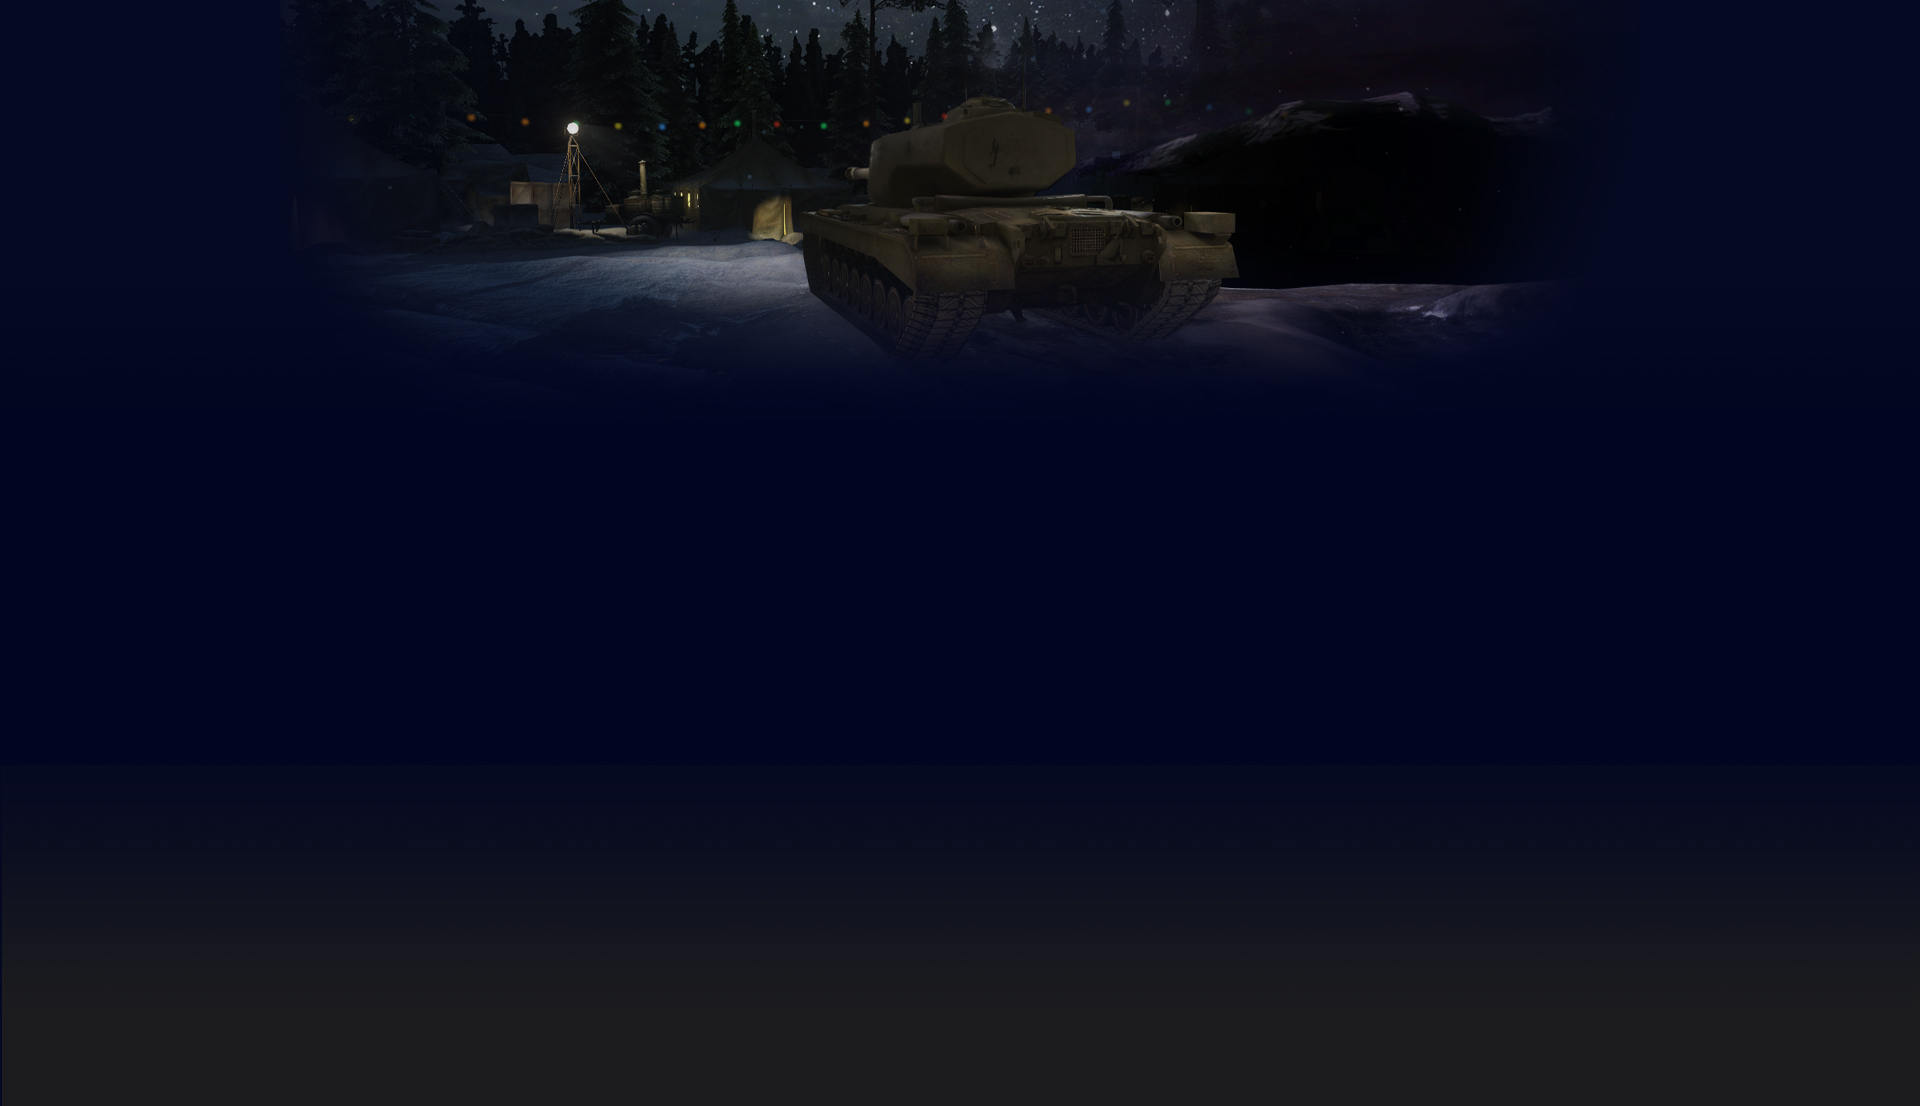
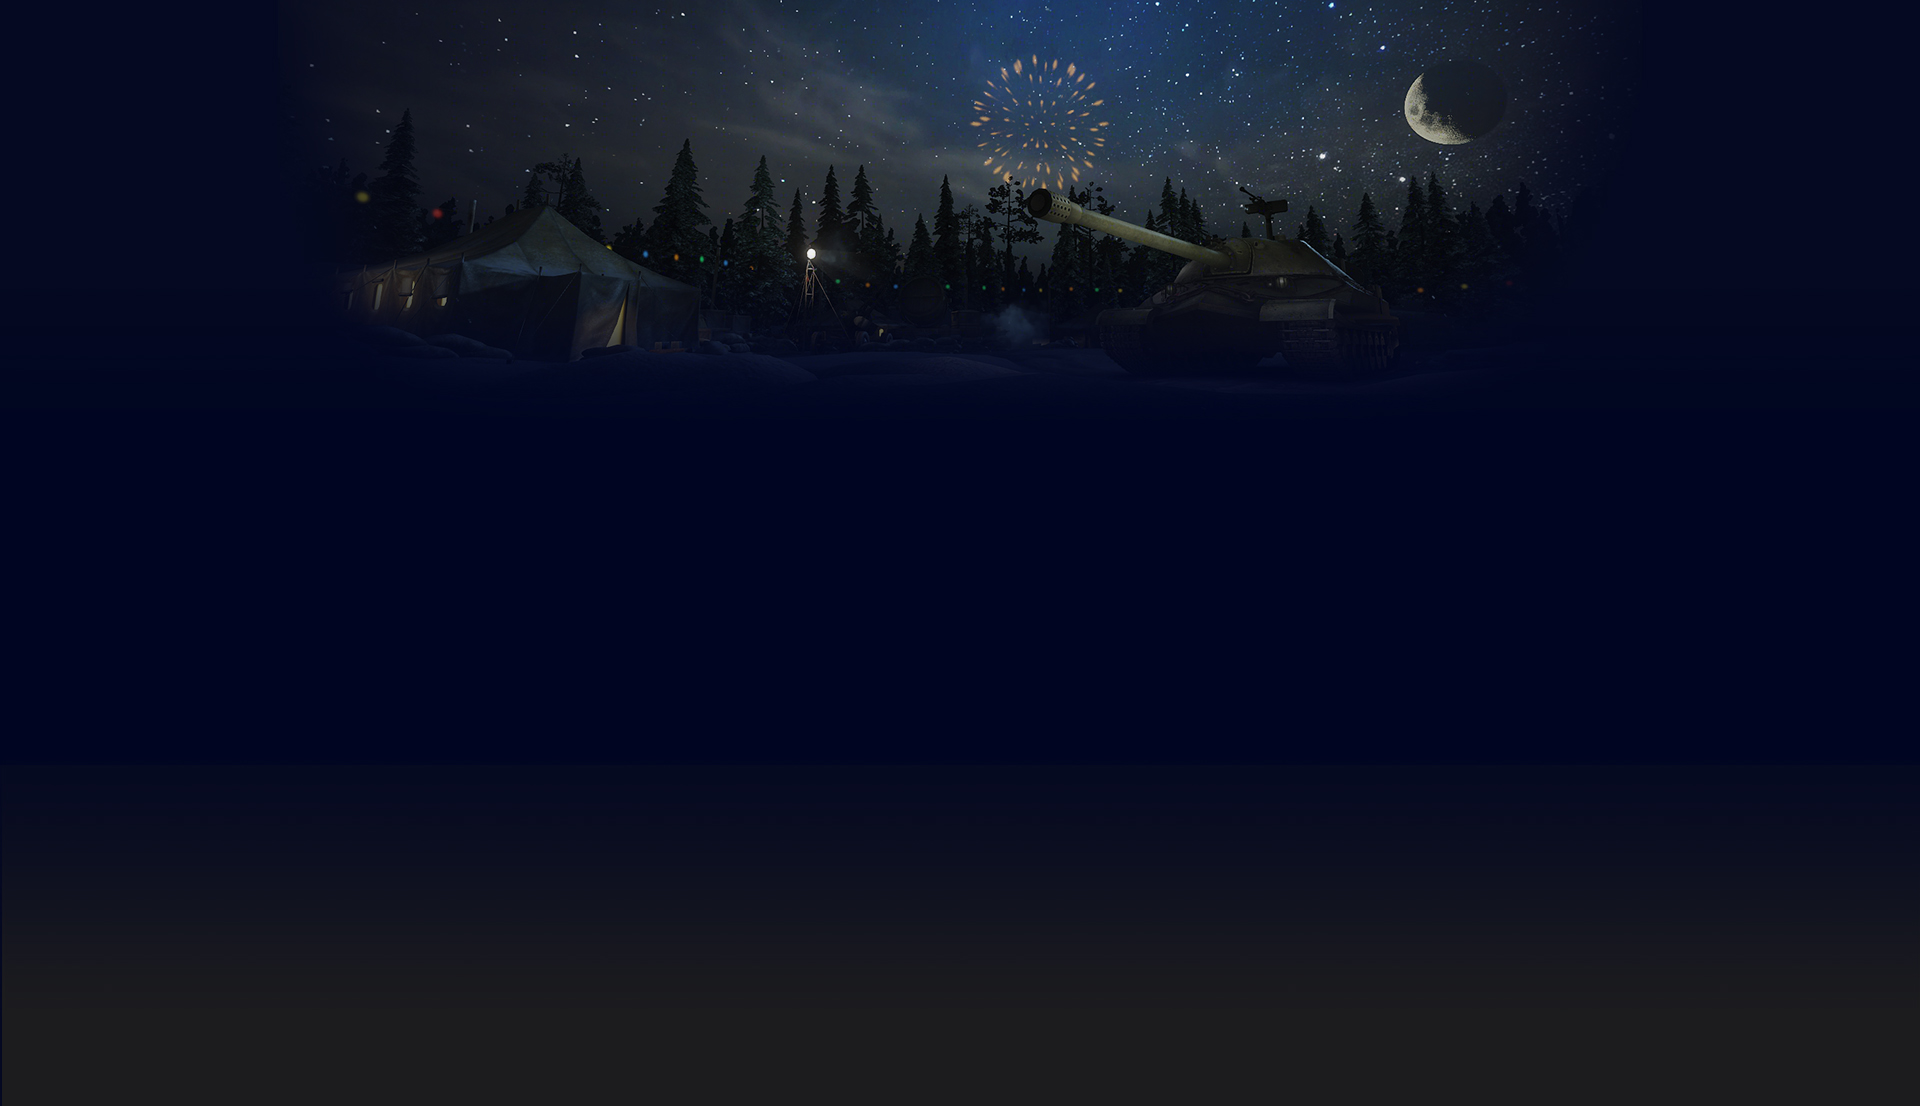
Декабрьское обновление

Changed region(s): [[0.1875, 0.0, 0.8125, 0.3074]]

diff --git a/_posts/2024-12-28-dcmbr-upd24.md b/_posts/2024-12-28-dcmbr-upd24.md
@@ -1,0 +1,102 @@
+---
+title: 'Декабрьское обновление: «проблемы будущего»'
+date: 2024-12-28 21:07:05 +0300
+tags: [important]
+category: updates
+image: "/assets/img/news/thumbnail/dcmbr24.png"
+image_small: "/assets/img/news/image_small/dcmbr24.png"
+---
+Проблемное, праздничное и последнее в этом году обновление уже доступно!
+{: style="display: none" }
+
+{% include yt-embed.html id="3hxlyPMr3iU" %}
+
+Танкисты!
+{: style="margin-top: 10px" }
+
+Вот и подобрался конец декабря. Разработка этого обновления была достаточно проблематичной и богата на различного рода испытания. Но вот мы уже на релизе, и самое время праздновать!
+
+#### Содержание
+{:.no_toc}
+
+- Содержание
+{:toc}
+
+{% include instructions.md %}
+
+### Что нового?
+
+Всего понемногу, обновления ангарного и боевого интерфейса, новые карты, обновленный новогодний ангар и новые SD-модели. Давайте же посмотрим на эти изменения поближе.
+
+### Интерфейс ангара
+
+![интерфейс ангар]({{ '/assets/img/news/mods/hangar_gui.png' | relative_url}}){: .pic-left.orange width="200" }
+
+В визуальной части шапки ангара изменения коснулись только текстов, у которых появились тени. Техническая части приобрела кое-что новенькое. Ранее в интерфейсе можно было отключить только отображение боевого пропуска и контейнеров, теперь же добавляется возможность отключения старой шапки ангара, но обратите внимание, чтобы применить изменения вам нужно будет перезапустить клиент. Боевой пропуск же можно выключать перезагрузки сцены с ангаром.
+
+---
+
+### Интерфейс боя
+
+[![интерфейс боя]({{ '/assets/img/news/mods/old_battle_gui.png' | relative_url}}){: .pic-right.orange width="200" }](https://drive.google.com/file/d/1FmohmS9sjSlitiQzPuboNxT1bLcsdWug/view?usp=sharing)
+
+Спустя большое количество обновлений мы наконец-то вводим в боевой интерфейс кое-что интересное. Таймер отсчета до начала боя переехал на собственную базу и стал выглядеть гораздо привлекательнее. И это еще не все, ведь мы вернули старое поведение камеры! Теперь при попадании в бой камера не будет медленно приближаться, а сразу будет у танка. При повреждении модулей и попадании в танк экран будет на секунду подсвечиваться красным.
+
+---
+
+### Новогодние ангары
+
+[![ангары]({{ '/assets/img/news/mods/hangar_v2.png' | relative_url}}){: .pic-left.orange width="200" }](https://drive.google.com/file/d/1FmohmS9sjSlitiQzPuboNxT1bLcsdWug/view?usp=sharing)
+
+Новогодние ангары вновь с вами! А лесной ангар даже получил графические и технические изменения. Знакомая вам полянка в глуши леса переехала на версию 0.8.2, из-за чего картинка стала более ностальгичной. Но кое-что новенькое в ангаре все же присутствует! Данный мод будет первой нашей работой с возможностью кастомизировать ёлку во время «Новогоднего наступления»!
+
+---
+
+### SD-модели
+
+![SD]({{ '/assets/img/news/mods/sd_wt.png' | relative_url}}){: .pic-right.orange width="200" }
+
+Помимо восстановления стабильной работы SD-моделей, мы завершили перевод качества прокачиваемой техники из дерева исследования СССР. Последними переработанными танками стали:
+- МТ-25
+- А-44
+- Об. 430 Вариант 2
+- Об. 430
+- ИС-8
+- А-43
+
+---
+
+### Карты
+
+![скайбоксы]({{ '/assets/img/news/mods/ssb.png' | relative_url}}){: .pic-left.orange width="200" }
+
+6 локаций переработаны под старый лад, а именно: 
+- Прохоровка
+- Редшир
+- Степи
+- Эрленберг
+- Линия Зигфрида
+- Вествилд
+{: style="margin-left: 205px;" }
+
+С обновлением на этих картах станет гораздо приятнее и ностальгичнее играть, но и радостные новости есть для тех, кто ждал «**Огненную дугу**» и «**Руинберг в огне**», ведь этих карты также получили свои альтернативные, «Горящие» варианты, но и о переработках мы не забываем! 
+
+На картах **Химмельсдорф**, **Утёс** и **Лассвиль** было переработано освещение под более историческое, террейн же был перерисован в некоторых местах и улучшен.
+
+---
+
+{: .message-error}
+Новогодние ангары будут опубликованы только для EU-региона.
+
+<div class="message-info" style="padding-bottom: 0">
+Обратите внимание:
+<ul style="margin-top: 0px">
+  <li>Моды на WGMods могут модерироваться несколько дней, это не зависит от нас.</li>
+  <li>Все моды вы ставите на свой страх и риск.</li>
+  <li>Обновления модификаций будут сообщаться на <a href="{{ site.data.socials.wek.discord.url }}">Discord-сервере «WoT это Классика!»</a>, в нашей <a href="{{ site.data.socials.bendy.vk.url }}">группе ВКонтакте</a>, на форумах и в социальных сетях.</li>
+</ul>
+</div>
+
+На этом заканчивается наш 2024 год и начинается новый, полный загадок 2025, где каждый день будет большим испытанием для нас, проекта и всего модостроения. 
+
+Увидимся в 1.32 и удачи на ностальгических полях сражений, танкисты! 

diff --git a/_includes/instructions.md b/_includes/instructions.md
@@ -7,7 +7,7 @@
 2. Переместите файлы из папки `res_mods` в следующую папку:
     - `C:\Games\Tanki\res_mods\[актуальная версия игры]`*
 >
-> **\*** Вместо `[актуальная версия игры]` должен быть номер текущей версии, например `1.28.0.0`.
+> **\*** Вместо `[актуальная версия игры]` должен быть номер текущей версии, например `1.31.0.0`.
 >
 > ---
 >
